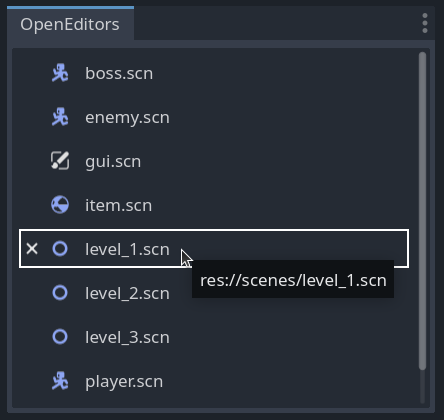
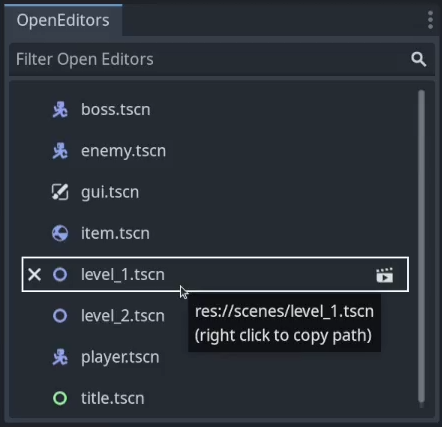
fix filter bug, update readme

Changed region(s): [[0.0, 0.0, 1.0, 0.9905]]

diff --git a/README.md b/README.md
@@ -1,5 +1,5 @@
 # Godot Open Editors
-This add on introduces a new dock for the Godot Editor that lists the current open editors for your project.  With this list you can more easily find an open scene when you have many scenes open.  You can also close scenes from the list without having to find the scene's editor tab.
+This add on introduces a new dock for the Godot Editor that lists the current open editors for your project.  With this list you can more easily find an open scene when you have many scenes open.  You can also close and play scenes from the list without having to find the scene's editor tab as well as quickly copy the scene path with a click of the right mouse button.
 
 <p align="center">
 <img src="./readme_images/open_editors_in_action.png" />
